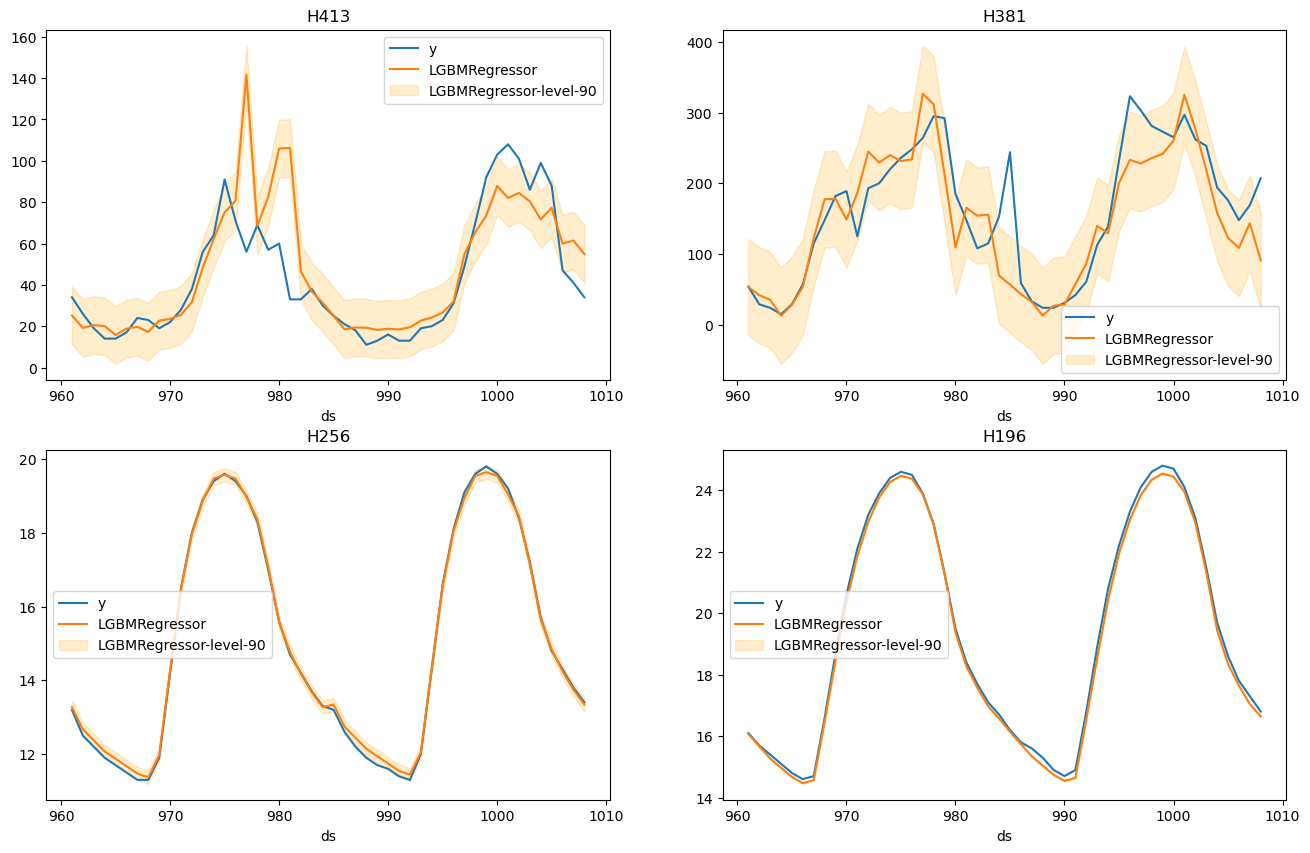
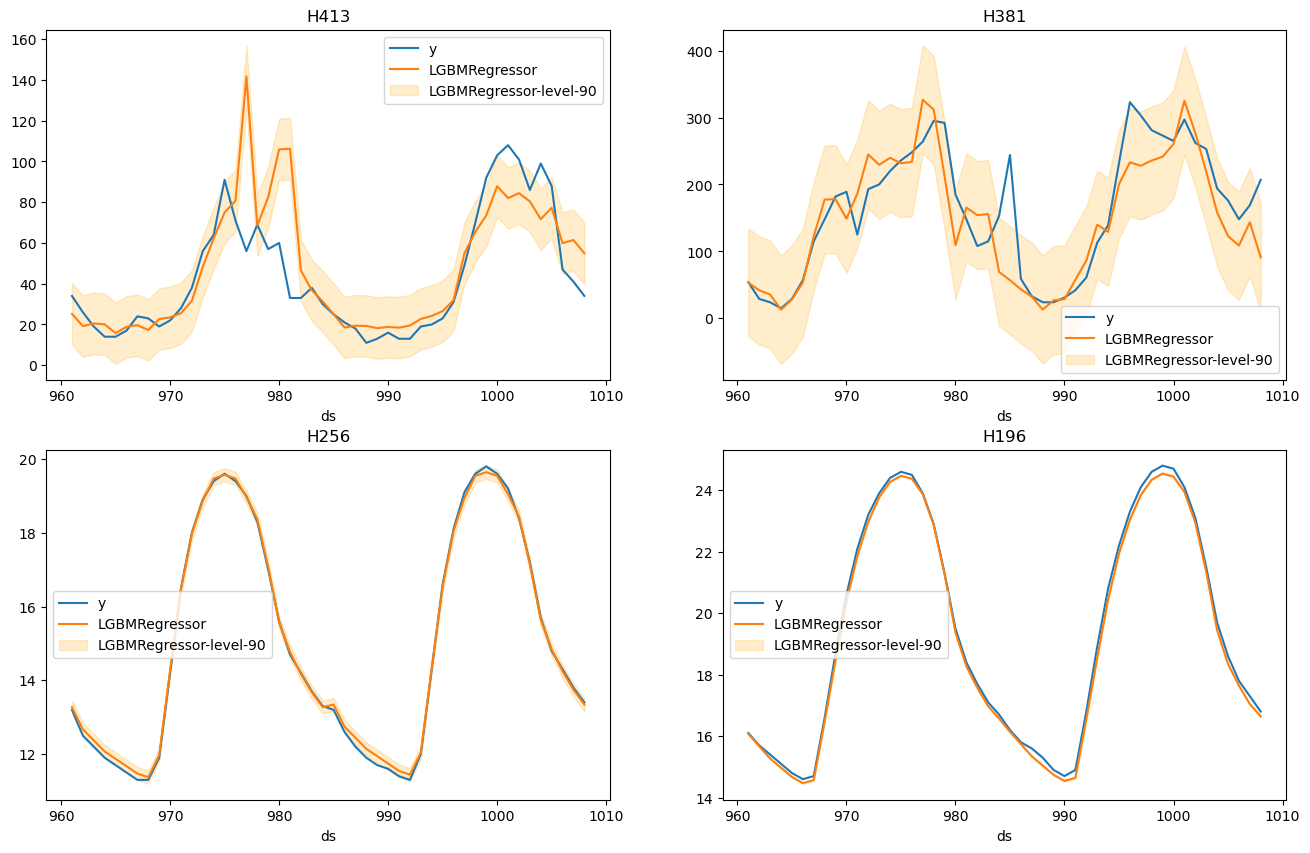
feat: add tests

diff --git a/mlforecast/forecast.py b/mlforecast/forecast.py
@@ -33,12 +33,14 @@ def _add_conformal_intervals(
     level: List[Union[int, float]],
     cs_n_windows: int,
     cs_window_size: int,
+    horizon: int,
 ) -> pd.DataFrame:
     """
     Adds conformal intervals to a `fcst_df` based on conformal scores `cs_df`.
     `level` should be already sorted.
     """
-    cuts = [lv / 100 for lv in level]
+    # bonferroni correction
+    cuts = [1 - (1 - lv / 100) / horizon for lv in level]
     n_level = len(level)
     for model in model_names:
         quantiles = np.quantile(
@@ -55,6 +57,36 @@ def _add_conformal_intervals(
     return fcst_df
 
 # %% ../nbs/forecast.ipynb 7
+def _schema_conformal_intervals(
+    model_names, level, id_col, time_col, dtypes, fcst_df_columns
+):
+    """Returns schema for conformal intervals."""
+    models_schema = ",".join(f"{model_name}:double" for model_name in model_names)
+    level_schema = ""
+    for model in model_names:
+        level_schema += ","
+        lo_cols = [f"{model}-lo-{lv}:double" for lv in reversed(level)]
+        hi_cols = [f"{model}-hi-{lv}:double" for lv in level]
+        level_schema += ",".join(lo_cols) + "," + ",".join(hi_cols)
+    id_col = id_col if id_col != "index" else fcst_df_columns[0]
+    id_col_type = (
+        dtypes.loc[id_col] if id_col != "index" else dtypes.loc[fcst_df_columns[0]]
+    )
+    if id_col_type == "category":
+        raise NotImplementedError(
+            "Use of `category` type to identify each time series is not yet implemented. "
+            f"Please transform your {id_col} to string to continue."
+        )
+    id_col_type = "string" if id_col_type == "object" else id_col_type
+    ts_col_type = f"{dtypes.loc[time_col]}".replace("64[ns]", "")
+    schema = (
+        f"{id_col}:{id_col_type},{time_col}:{ts_col_type},"
+        + models_schema
+        + level_schema
+    )
+    return schema, id_col
+
+# %% ../nbs/forecast.ipynb 12
 class MLForecast:
     def __init__(
         self,
@@ -249,7 +281,7 @@ class MLForecast:
             cv_results[model] = np.abs(cv_results[model] - cv_results[target_col])
         if id_col == "index":
             cv_results = cv_results.reset_index()
-        self.conformity_scores = cv_results.drop("y", axis=1)
+        return cv_results.drop("y", axis=1)
 
     def fit(
         self,
@@ -291,9 +323,10 @@ class MLForecast:
         self : Forecast
             Forecast object with series values and trained models.
         """
+        self._cs_df: Optional[pd.DataFrame] = None
         if prediction_intervals is not None:
             self.prediction_intervals = prediction_intervals
-            self._conformity_scores(
+            self._cs_df = self._conformity_scores(
                 data=data,
                 id_col=id_col,
                 time_col=time_col,
@@ -393,6 +426,13 @@ class MLForecast:
             after_predict_callback,
         )
         if level is not None:
+            if self.prediction_intervals.window_size not in [1, horizon]:
+                raise ValueError(
+                    "The `window_size` argument of PredictionIntervals "
+                    "should be equal to one or `horizon`. "
+                    "Please rerun the `fit` method passing a proper value "
+                    "to prediction intervals."
+                )
             if self.prediction_intervals.window_size != horizon:
                 warn_msg = (
                     "Prediction intervals are calculated using 1-step ahead cross-validation, "
@@ -403,38 +443,27 @@ class MLForecast:
                 warnings.warn(warn_msg, UserWarning)
             level_ = sorted(level)
             model_names = self.models.keys()
-            models_schema = ",".join(
-                f"{model_name}:double" for model_name in model_names
-            )
-            level_schema = ""
-            for model in model_names:
-                level_schema += ","
-                lo_cols = [f"{model}-lo-{lv}:double" for lv in reversed(level_)]
-                hi_cols = [f"{model}-hi-{lv}:double" for lv in level_]
-                level_schema += ",".join(lo_cols) + "," + ",".join(hi_cols)
-            id_col = ts.id_col if ts.id_col != "index" else forecasts.index.name
-            dtypes = forecasts.dtypes
-            id_col_type = (
-                dtypes.loc[ts.id_col] if ts.id_col != "index" else forecasts.index.dtype
-            )
-            id_col_type = "string" if id_col_type == "object" else id_col_type
-            ts_col_type = f"{dtypes.loc[ts.time_col]}".replace("64[ns]", "")
-            schema = (
-                f"{id_col}:{id_col_type},{ts.time_col}:{ts_col_type},"
-                + models_schema
-                + level_schema
-            )
             if ts.id_col == "index":
                 forecasts = forecasts.reset_index()
+            dtypes = forecasts.dtypes
+            schema, id_col = _schema_conformal_intervals(
+                model_names=model_names,
+                level=level_,
+                id_col=ts.id_col,
+                time_col=ts.time_col,
+                dtypes=dtypes,
+                fcst_df_columns=forecasts.columns,
+            )
             forecasts = _cotransform(
                 forecasts,
-                self.conformity_scores,
+                self._cs_df,
                 using=_add_conformal_intervals,
                 params=dict(
                     model_names=list(model_names),
                     level=level_,
                     cs_window_size=self.prediction_intervals.window_size,
                     cs_n_windows=self.prediction_intervals.n_windows,
+                    horizon=horizon,
                 ),
                 schema=schema,
                 partition=id_col,
@@ -571,7 +600,7 @@ class MLForecast:
             out = out.reset_index()
         return out
 
-# %% ../nbs/forecast.ipynb 10
+# %% ../nbs/forecast.ipynb 15
 class Forecast(MLForecast):
     def __init__(
         self,

diff --git a/mlforecast/_modidx.py b/mlforecast/_modidx.py
@@ -131,7 +131,9 @@ d = { 'settings': { 'branch': 'main',
                                      'mlforecast.forecast.MLForecast.preprocess': ( 'forecast.html#mlforecast.preprocess',
                                                                                     'mlforecast/forecast.py'),
                                      'mlforecast.forecast._add_conformal_intervals': ( 'forecast.html#_add_conformal_intervals',
-                                                                                       'mlforecast/forecast.py')},
+                                                                                       'mlforecast/forecast.py'),
+                                     'mlforecast.forecast._schema_conformal_intervals': ( 'forecast.html#_schema_conformal_intervals',
+                                                                                          'mlforecast/forecast.py')},
             'mlforecast.lgb_cv': { 'mlforecast.lgb_cv.LightGBMCV': ('lgb_cv.html#lightgbmcv', 'mlforecast/lgb_cv.py'),
                                    'mlforecast.lgb_cv.LightGBMCV.__init__': ('lgb_cv.html#lightgbmcv.__init__', 'mlforecast/lgb_cv.py'),
                                    'mlforecast.lgb_cv.LightGBMCV.__repr__': ('lgb_cv.html#lightgbmcv.__repr__', 'mlforecast/lgb_cv.py'),
